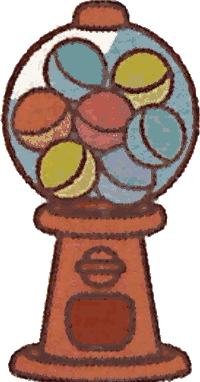
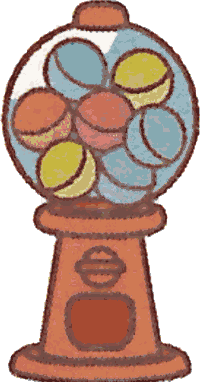
fq-gbright-v1: ガチャの絵と飾り文字を明るく／CACHE v19

Changed region(s): [[0.0, 0.0, 1.0, 1.0], [0.54, 0.4607, 0.63, 0.4895], [0.45, 0.1152, 0.51, 0.144]]

diff --git a/service-worker.js b/service-worker.js
@@ -12,7 +12,7 @@
        つながらない時だけキャッシュを出す（＝オフラインでも開ける）。
      - アイコン・manifest だけ「キャッシュ優先」（変わらないので速さ優先）。
    ------------------------------------------------------------------ */
-const CACHE = 'fq326-v18';  // fq-flyer2-v1: img/date.png の中身を差し替えたので版を上げる
+const CACHE = 'fq326-v19';  // fq-gbright-v1: gacha_m.png / gacha_w.png を明るくしたので版を上げる
 // ★名前を変えずに絵の中身だけ差し替えたときは、必ずここを上げること。
 //   上げないと、端末に残った古い絵（白い丸の「日」）が出続ける。
 //   ★名前が新しい絵（time.png / time_note.png）は、上げなくても出る。

diff --git a/README.md b/README.md
@@ -6502,3 +6502,58 @@ top:0        bottom:1.92%  （楕円のまん中は上から49.04%）
 
 - 何かの下だけ空く → その行でいちばん背の高いものを探す。たいていそれが原因
 - 詰めたあとは、**いちばん狭い画面（320px）でくっつかないか**必ず見る
+
+---
+
+## `fq-gbright-v1` — ガチャの絵と飾り文字を明るくした（2026-09-28）
+
+### 何が気になったか
+
+ガチャガチャの絵と「ガチャ」の飾り文字が、くすんで見えた。
+
+### 原因
+
+この2つは**チラシをスキャンして切り出した絵**。
+
+★★**紙をスキャンすると、色は必ず本物より暗く出る。**
+前に確かめた例: チラシの黄色 `#E7DE01` が、スキャンでは `rgb(182,171,14)` として読まれていた。
+
+### やったこと
+
+みどころの写真8枚と**まったく同じ処方**で明るくした。
+
+```
+ガンマ 1.28（明るく） ／ 鮮やかさ 1.12
+```
+
+★★**処方はそろえること。** ここだけ別の値にすると、
+スクロールしたときに「ここだけ色が違う」と見えてしまう。
+
+4段階（今のまま／軽く／この処方／しっかり）を並べて見くらべて決めた。
+
+| | 前 | 後 |
+|---|---|---|
+| `img/gacha_m.png` | 21.7KB | 17.8KB |
+| `img/gacha_w.png` | 18.0KB | 13.8KB |
+
+明るくしたあと64色にまとめ直したので、前より軽い。
+色のズレは平均1.8・最大25で、目では分からない。
+
+CSSもHTMLも直していない。絵の中身だけの差し替え。
+
+### ★★CACHE を上げた（fq326-v18 → fq326-v19）
+
+**名前を変えずに絵の中身だけ差し替えたので、必ず上げる。**
+上げないと、端末に残った**古い（暗い）絵が出続ける**。
+
+| | CACHE |
+|---|---|
+| 名前はそのまま・中身だけ差し替え | **上げる** |
+| 新しい名前の絵を足した | 上げなくてよい |
+| HTML / CSS だけ直した | 上げなくてよい（HTMLはネットワーク優先のため） |
+
+### 次に同じことがあったときの調べ方
+
+- 紙から切り出した絵がくすむ → **ガンマ1.28・鮮やかさ1.12**（このサイトの標準の処方）
+- 直したのに端末で古い絵が出る → **CACHE を上げ忘れていないか**
+- 絵が重い → 64色にまとめ直す（`quantize(colors=64, method=FASTOCTREE)`）
